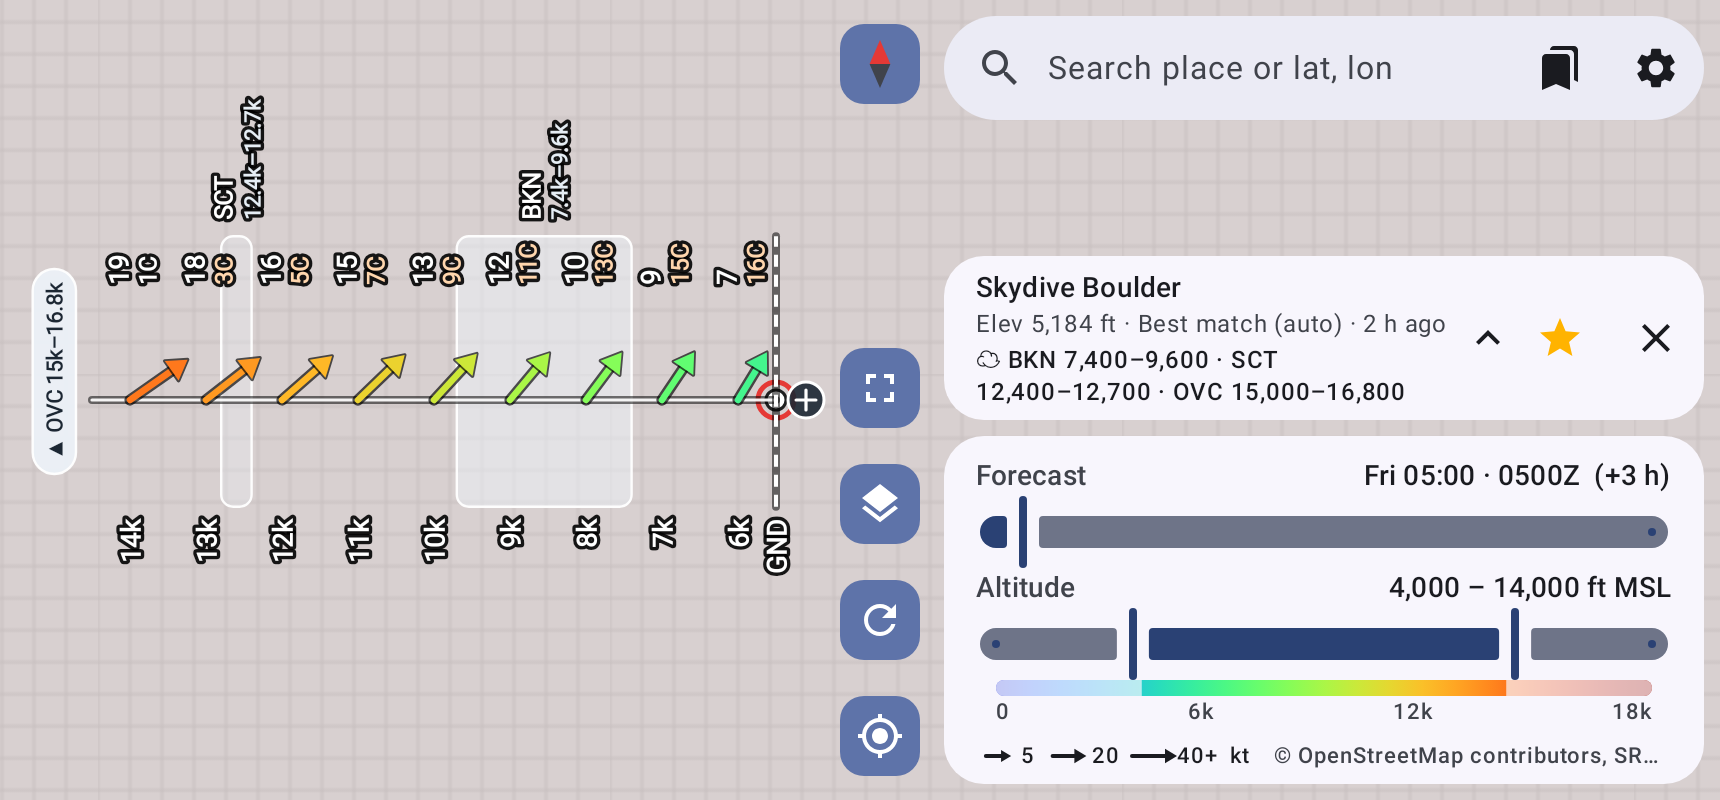
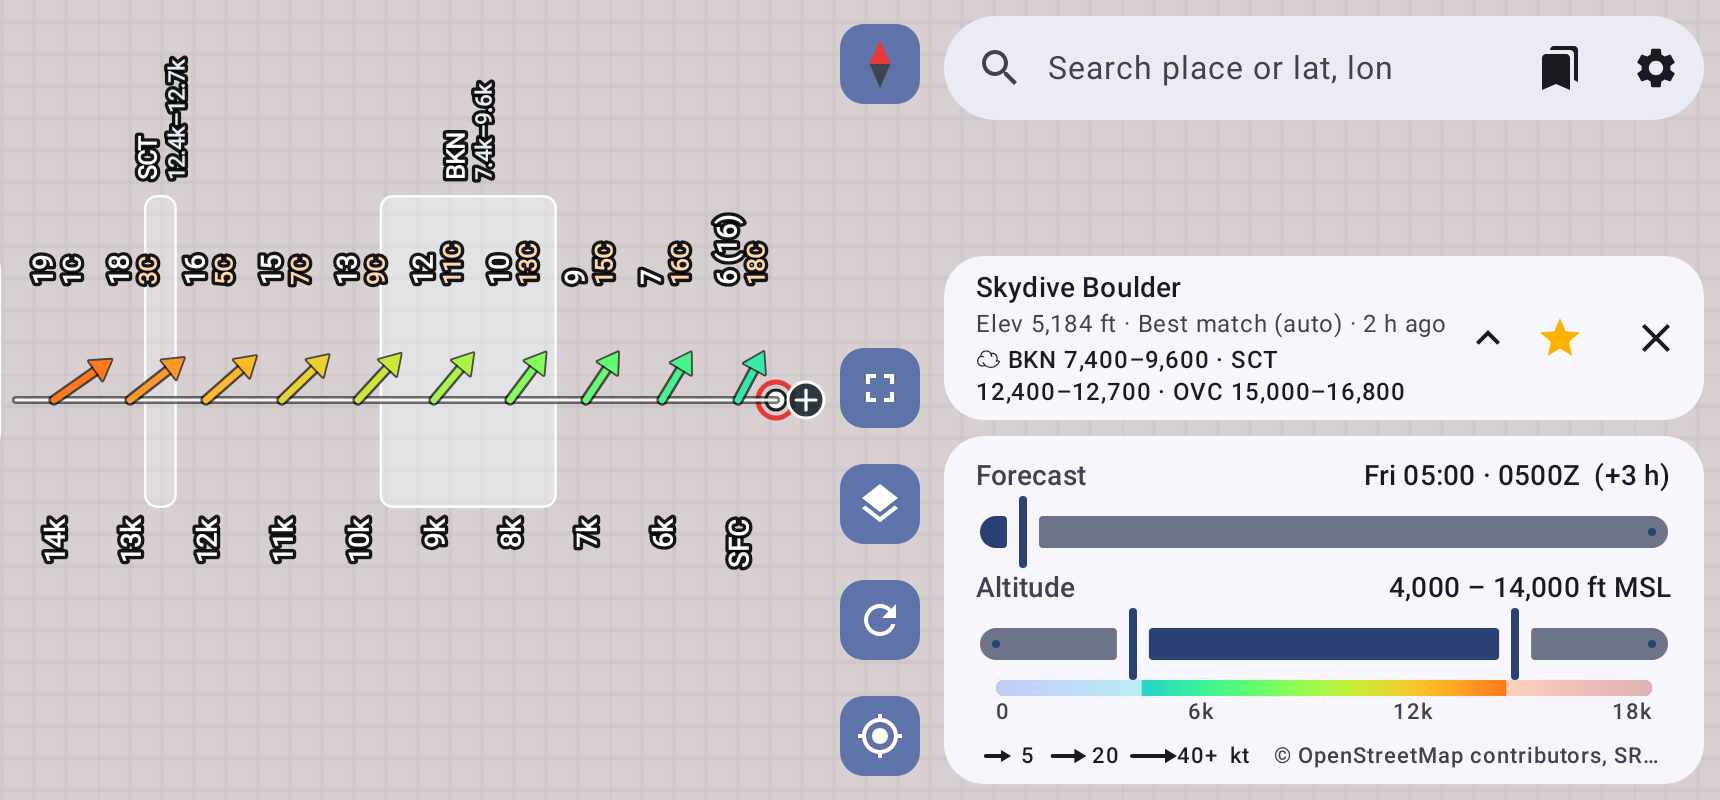
0.9.1: ground gusts in brackets next to the surface wind
Request Open-Meteo's wind_gusts_10m and attach it to the 10 m wind. The
bottom chart row is now the ground wind, labelled SFC, with gusts in
brackets ("4 (18)") on the map and in the table. In MSL mode it takes
the below-ground slot just under the lowest real altitude; in AGL it is
the 0 ft row. The label slot reserves room for the gust so the layout
still never changes with the forecast time.

Claude-Session: https://claude.ai/code/session_01ASfqcF537i7kv6SW4BHrd9

diff --git a/app/src/main/java/dev/windsaloft/ui/Components.kt b/app/src/main/java/dev/windsaloft/ui/Components.kt
@@ -481,7 +481,7 @@ fun PinPanel(
 
 private val ColAlt = 92.dp
 private val ColDir = 84.dp
-private val ColSpd = 64.dp
+private val ColSpd = 72.dp
 
 @Composable
 private fun ProfileHeader(unit: SpeedUnit) {
@@ -498,7 +498,14 @@ private fun ProfileHeader(unit: SpeedUnit) {
 }
 
 @Composable
-private fun altitudeText(ft: Int, s: Settings) = Format.feet(ft) + if (ft == 0 && s.altitudeRef == AltitudeRef.AGL) " sfc" else ""
+private fun altitudeText(ft: Int, s: Settings, w: Wind? = null) = when {
+    w?.surface == true && s.altitudeRef == AltitudeRef.MSL -> "SFC " + Format.feet(w.altitudeFt)
+    w?.surface == true || (ft == 0 && s.altitudeRef == AltitudeRef.AGL) -> "SFC"
+    else -> Format.feet(ft)
+}
+
+/** Speed, plus the gust forecast in brackets for the ground wind: "4 (18)". */
+private fun speedText(w: Wind, s: Settings) = Format.speed(w.speedMs, s.unit) + (w.gustMs?.let { " (${Format.speed(it, s.unit)})" } ?: "")
 
 @Composable
 private fun ProfileRow(ft: Int, w: Wind?, s: Settings) {
@@ -508,7 +515,7 @@ private fun ProfileRow(ft: Int, w: Wind?, s: Settings) {
     Row(Modifier.fillMaxWidth().padding(horizontal = 16.dp, vertical = 3.dp), verticalAlignment = Alignment.CenterVertically) {
         Canvas(Modifier.size(10.dp)) { drawCircle(rowColor) }
         Spacer(Modifier.width(8.dp))
-        Text(altitudeText(ft, s), Modifier.width(ColAlt), style = num, maxLines = 1)
+        Text(altitudeText(ft, s, w), Modifier.width(ColAlt), style = num, maxLines = 1)
         if (w == null) {
             Text(
                 if (s.altitudeRef == AltitudeRef.MSL) "below ground / no data" else "no data",
@@ -522,7 +529,7 @@ private fun ProfileRow(ft: Int, w: Wind?, s: Settings) {
             Spacer(Modifier.width(6.dp))
             Text(Format.direction(w.dirFromDeg), style = num)
         }
-        Text(Format.speed(w.speedMs, s.unit), Modifier.width(ColSpd), style = num, fontWeight = FontWeight.SemiBold)
+        Text(speedText(w, s), Modifier.width(ColSpd), style = num, fontWeight = FontWeight.SemiBold, maxLines = 1)
         Text(w.tempC?.let { s.tempUnit.format(it) } ?: "", style = num)
     }
 }
@@ -554,7 +561,7 @@ private fun CompareRow(profiles: List<ModelProfile>, index: Int, s: Settings) {
     val ft = profiles.first().winds[index].first
     val winds = profiles.map { it.winds.getOrNull(index)?.second }
     Row(Modifier.fillMaxWidth().padding(horizontal = 12.dp, vertical = 3.dp), verticalAlignment = Alignment.CenterVertically) {
-        Text(Format.feet(ft), Modifier.width(ColAltCompare), style = num, maxLines = 1)
+        Text(if (winds.any { it?.surface == true }) "SFC" else Format.feet(ft), Modifier.width(ColAltCompare), style = num, maxLines = 1)
         profiles.forEachIndexed { i, p ->
             val w = winds[i]
             Row(Modifier.weight(1f), verticalAlignment = Alignment.CenterVertically) {
@@ -565,7 +572,7 @@ private fun CompareRow(profiles: List<ModelProfile>, index: Int, s: Settings) {
                     Spacer(Modifier.width(2.dp))
                     // Aviation-style "direction/speed", then temperature.
                     Text(
-                        "%03d/%s".format(Math.round(w.dirFromDeg) % 360, Format.speed(w.speedMs, s.unit)),
+                        "%03d/%s".format(Math.round(w.dirFromDeg) % 360, speedText(w, s)),
                         style = num, maxLines = 1,
                     )
                     if (w.tempC != null) {
@@ -776,7 +783,8 @@ fun SettingsDialog(settings: Settings, onChange: (Settings) -> Unit, onDismiss: 
                 )
                 Text(
                     "Each altitude is a row, lowest at the pin; a longer symbol is a stronger wind. Directions are " +
-                        "shown in degrees (°) the wind comes from; temperatures end in C or F. Long-press the map to " +
+                        "shown in degrees (°) the wind comes from; temperatures end in C or F. The bottom SFC row is the " +
+                        "ground wind, with forecast gusts in brackets: 4 (18). Long-press the map to " +
                         "move the forecast spot.",
                     style = MaterialTheme.typography.bodySmall,
                     color = MaterialTheme.colorScheme.onSurfaceVariant,

diff --git a/app/src/main/java/dev/windsaloft/map/WindOverlay.kt b/app/src/main/java/dev/windsaloft/map/WindOverlay.kt
@@ -256,7 +256,10 @@ class WindOverlay(private val density: Float) : Overlay() {
         val lenScale = if (comparing) COMPARE_LENGTH else STACK_LENGTH
         val reach = (if (anchor == ArrowAnchor.CENTRE) cell * lenScale / 2 else cell * lenScale) + stroke * 1.5f + density
         // Sized for the widest possible text, so the slot never changes with the numbers.
-        val topTemplate = listOfNotNull(if (showDirection) "888°" else null, if (showSpeed) "888" else null).joinToString(" ")
+        // The ground row also shows gusts, "12 (25)": reserve room for that whenever there is a ground row.
+        val hasSurface = columns.any { c -> c.winds.any { it?.surface == true } }
+        val speedTemplate = if (hasSurface) "88 (88)" else "888"
+        val topTemplate = listOfNotNull(if (showDirection) "888°" else null, if (showSpeed) speedTemplate else null).joinToString(" ")
         val topW = if (topTemplate.isEmpty()) 0f else width(topTemplate, textSize)
         val tempW = if (showTemperature) width("-88F", tempSize) else 0f
         val labelW = if (topW == 0f && tempW == 0f) 0f else maxOf(topW, tempW) + 6 * density
@@ -318,13 +321,13 @@ class WindOverlay(private val density: Float) : Overlay() {
                 val color = colorFor(w, col)
                 val kt = w.speedMs * KT_PER_MS
                 drawGlyph(c, cx, cy, w, cell * lenScale, cell * 0.16f, stroke, color, anchor)
-                if (i % labelEvery != 0) return@forEachIndexed
+                if (i % labelEvery != 0 && !w.surface) return@forEachIndexed
                 // Label slot: direction + speed on top, temperature underneath, always at the same spot.
                 val lx = cx + reach + 4 * density
                 val hasTemp = showTemperature && w.tempC != null
                 val topLine = listOfNotNull(
                     if (showDirection) "%03d°".format(Math.round(w.dirFromDeg).toInt() % 360) else null,
-                    if (showSpeed) speedLabel(w.speedMs) else null,
+                    if (showSpeed) speedLabel(w.speedMs) + (w.gustMs?.let { " (${speedLabel(it)})" } ?: "") else null,
                 ).joinToString(" ")
                 if (topLine.isNotEmpty()) {
                     text.textSize = textSize; textHalo.textSize = textSize
@@ -360,14 +363,15 @@ class WindOverlay(private val density: Float) : Overlay() {
         // Altitude labels down the left side.
         text.textSize = textSize; textHalo.textSize = textSize
         val altX = colL(0) - 6 * density
+        val surfaceRow = (skip until rows).firstOrNull { i -> columns.any { it.winds.getOrNull(i)?.surface == true } }
         for (i in skip until rows) {
-            if (i % labelEvery != 0) continue
+            if (i % labelEvery != 0 && i != surfaceRow) continue
             val alt = rowAlt(i) ?: continue
-            val label = if (alt == 0) "SFC" else if (alt % 1000 == 0) "${alt / 1000}k" else "$alt"
+            val label = if (alt == 0 || i == surfaceRow) "SFC" else if (alt % 1000 == 0) "${alt / 1000}k" else "$alt"
             drawText(c, label, altX, rowY(i) + textSize * 0.36f, Paint.Align.RIGHT, 0xFFFFFFFF.toInt())
         }
-        // When MSL rows were dropped, the ground is at the pin: mark it.
-        if (skip > 0) {
+        // When MSL rows were dropped, the ground is at the pin: mark it (unless the ground-wind row already does).
+        if (skip > 0 && surfaceRow != skip) {
             ground.pathEffect = android.graphics.DashPathEffect(floatArrayOf(6 * density, 4 * density), 0f)
             ground.strokeWidth = 2f * density
             staffHalo.strokeWidth = 4f * density

diff --git a/app/src/main/java/dev/windsaloft/wind/WindMath.kt b/app/src/main/java/dev/windsaloft/wind/WindMath.kt
@@ -13,8 +13,14 @@ data class LatLon(val lat: Double, val lon: Double)
 /** One model level for one hour: wind (and optionally temperature) at a height above mean sea level. */
 data class RawSample(val heightM: Double, val speedMs: Double, val dirFromDeg: Double, val tempC: Double?)
 
-/** Wind interpolated to a requested altitude. Direction is meteorological: where the wind blows FROM. */
-data class Wind(val altitudeFt: Int, val dirFromDeg: Double, val speedMs: Double, val tempC: Double?)
+/**
+ * Wind interpolated to a requested altitude. Direction is meteorological: where the wind blows FROM.
+ * [surface] marks the ground wind (10 m), which also carries the forecast gust speed, [gustMs].
+ */
+data class Wind(
+    val altitudeFt: Int, val dirFromDeg: Double, val speedMs: Double, val tempC: Double?,
+    val gustMs: Double? = null, val surface: Boolean = false,
+)
 
 enum class AltitudeRef { MSL, AGL }
 
@@ -145,6 +151,8 @@ class ForecastPoint(
     val profiles: List<List<RawSample>>,
     /** Per hour, pressure-level cloud cover sorted by height (empty when the model has none). */
     val clouds: List<List<CloudSample>> = emptyList(),
+    /** Per hour, forecast gust speed at 10 m (NaN = none); null when the model doesn't give gusts. */
+    val surfaceGustsMs: DoubleArray? = null,
 ) {
     /**
      * Cloud layers between [loFt] and [hiFt] (display reference), found by scanning every 100 ft for
@@ -177,14 +185,33 @@ class ForecastPoint(
 
     fun hourIndex(epochSec: Long): Int = java.util.Arrays.binarySearch(timesEpochSec, epochSec).let { if (it >= 0) it else -1 }
 
+    /**
+     * Winds at each altitude. The ground wind (with gusts) fills the 0 ft AGL slot, or in MSL the
+     * slot just below the lowest altitude above ground, so the column starts with the surface wind.
+     */
     fun windsAt(epochSec: Long, altitudesFt: List<Int>, ref: AltitudeRef): List<Wind?> {
         val i = hourIndex(epochSec)
         if (i < 0) return altitudesFt.map { null }
         val samples = profiles[i]
         val base = if (ref == AltitudeRef.AGL) elevationM else 0.0
-        return altitudesFt.map { ft ->
+        val winds = altitudesFt.map { ft ->
+            if (ref == AltitudeRef.AGL && ft == 0) return@map surfaceAt(i, 0)
             WindMath.interpolate(samples, base + ft * M_PER_FT, elevationM)
                 ?.let { Wind(ft, it.dirFromDeg, it.speedMs, it.tempC) }
+        }.toMutableList()
+        if (ref == AltitudeRef.MSL) {
+            val first = winds.indexOfFirst { it != null }
+            if (first > 0 && altitudesFt[first - 1] * M_PER_FT < elevationM) {
+                winds[first - 1] = surfaceAt(i, Math.round(elevationM / M_PER_FT).toInt())
+            }
         }
+        return winds
+    }
+
+    /** The 10 m wind for hour [i], labelled with [altitudeFt], with the gust forecast when there is one. */
+    private fun surfaceAt(i: Int, altitudeFt: Int): Wind? {
+        val s = profiles[i].firstOrNull { kotlin.math.abs(it.heightM - (elevationM + 10)) < 1.0 } ?: return null
+        val gust = surfaceGustsMs?.getOrNull(i)?.takeUnless { it.isNaN() }
+        return Wind(altitudeFt, s.dirFromDeg, s.speedMs, s.tempC, gustMs = gust, surface = true)
     }
 }

diff --git a/app/src/test/java/dev/windsaloft/data/OpenMeteoTest.kt b/app/src/test/java/dev/windsaloft/data/OpenMeteoTest.kt
@@ -23,6 +23,7 @@ class OpenMeteoTest {
         assertTrue(url.contains("geopotential_height_550hPa"))
         assertFalse(url.contains("temperature"))
         assertTrue(url.contains("models=gfs_seamless"))
+        assertTrue(url.contains("wind_gusts_10m"))
     }
 
     // Two locations, as the API returns for comma-separated coordinates. The 1000 hPa level is
@@ -30,7 +31,7 @@ class OpenMeteoTest {
     private val twoLocations = """
         [{"latitude":40.0,"longitude":-105.0,"elevation":1600.0,
           "hourly":{"time":[3600,7200],
-            "wind_speed_10m":[3.0,4.0],"wind_direction_10m":[180,190],
+            "wind_speed_10m":[3.0,4.0],"wind_direction_10m":[180,190],"wind_gusts_10m":[9.5,null],
             "wind_speed_1000hPa":[9.0,9.0],"wind_direction_1000hPa":[90,90],"geopotential_height_1000hPa":[110,112],
             "wind_speed_850hPa":[8.0,null],"wind_direction_850hPa":[250,null],"geopotential_height_850hPa":[1450,1460],
             "wind_speed_700hPa":[15.0,16.0],"wind_direction_700hPa":[270,275],"geopotential_height_700hPa":[3100,3110],
@@ -52,11 +53,22 @@ class OpenMeteoTest {
         assertEquals(1600.0, first.elevationM, 1e-9)
         // hour 0: 10 m + 700 hPa (1000 hPa below ground, 850 hPa at 1450 m is below 1600 m ground too)
         assertEquals(listOf(1610.0, 3100.0), first.profiles[0].map { it.heightM })
-        // Below-ground MSL altitude returns null; AGL surface returns the 10 m wind.
-        val msl = first.windsAt(3600, listOf(0, 9000), AltitudeRef.MSL)
+        // MSL: the below-ground slot under the lowest real altitude shows the ground wind and its gusts;
+        // anything further below ground is empty. AGL 0 ft is the ground wind too.
+        val msl = first.windsAt(3600, listOf(0, 3000, 9000), AltitudeRef.MSL)
         assertNull(msl[0])
-        assertEquals(270.0, msl[1]!!.dirFromDeg, 15.0)
-        assertEquals(3.0, first.windsAt(3600, listOf(0), AltitudeRef.AGL)[0]!!.speedMs, 1e-9)
+        assertTrue(msl[1]!!.surface)
+        assertEquals(3.0, msl[1]!!.speedMs, 1e-9)
+        assertEquals(9.5, msl[1]!!.gustMs!!, 1e-9)
+        assertEquals(5249, msl[1]!!.altitudeFt) // the ground, 1600 m
+        assertEquals(270.0, msl[2]!!.dirFromDeg, 15.0)
+        val agl = first.windsAt(3600, listOf(0, 1000), AltitudeRef.AGL)
+        assertTrue(agl[0]!!.surface)
+        assertEquals(3.0, agl[0]!!.speedMs, 1e-9)
+        assertFalse(agl[1]!!.surface)
+        assertNull(agl[1]!!.gustMs)
+        // No gust given for that hour: the ground wind still shows, just without gusts.
+        assertNull(first.windsAt(7200, listOf(0), AltitudeRef.AGL)[0]!!.gustMs)
 
         // Cloud cover comes from levels above ground only: 850 hPa (1450 m) is under the 1600 m terrain.
         assertEquals(listOf(3100.0 to 60.0), first.clouds[0].map { it.heightM to it.pct })

diff --git a/app/src/main/java/dev/windsaloft/data/OpenMeteo.kt b/app/src/main/java/dev/windsaloft/data/OpenMeteo.kt
@@ -68,6 +68,7 @@ object OpenMeteo {
             add("wind_direction_${h}m")
             if (includeTemperature) add("temperature_${t}m")
         }
+        add("wind_gusts_10m")
         for (p in levelsFor(ceilingFt)) {
             add("wind_speed_${p}hPa")
             add("wind_direction_${p}hPa")
@@ -152,7 +153,7 @@ object OpenMeteo {
                 if (h > elevation) CloudSample(h, pct) else null
             }.sortedBy { it.heightM }
         }
-        return ForecastPoint(location, elevation, times, profiles, clouds)
+        return ForecastPoint(location, elevation, times, profiles, clouds, series("wind_gusts_10m"))
     }
 
     private fun JsonObject.num(key: String): Double? = (this[key] as? JsonElement)?.jsonPrimitive?.doubleOrNull

diff --git a/app/src/test/java/dev/windsaloft/wind/WindMathTest.kt b/app/src/test/java/dev/windsaloft/wind/WindMathTest.kt
@@ -71,7 +71,9 @@ class WindMathTest {
     fun forecastPointAglVsMsl() {
         val fp = ForecastPoint(LatLon(0.0, 0.0), ground, longArrayOf(3600L), listOf(profile))
         val msl = fp.windsAt(3600L, listOf(0, 8000), AltitudeRef.MSL)
-        assertNull(msl[0]) // sea level is underground here
+        // Sea level is underground here, so that slot shows the ground wind instead.
+        assertTrue(msl[0]!!.surface)
+        assertEquals(4.0, msl[0]!!.speedMs, 1e-9)
         assertNotNull(msl[1])
         val agl = fp.windsAt(3600L, listOf(0, 1000), AltitudeRef.AGL)
         assertEquals(4.0, agl[0]!!.speedMs, 1e-9)

diff --git a/app/src/test/java/dev/windsaloft/ui/ScreenshotTest.kt b/app/src/test/java/dev/windsaloft/ui/ScreenshotTest.kt
@@ -69,7 +69,8 @@ class ScreenshotTest {
                 CloudSample(4500.0, 0.0), CloudSample(4700.0, 90.0), CloudSample(5000.0, 95.0), CloudSample(5200.0, 0.0),
             )
         }
-        return ForecastPoint(at, elevation, hours.toLongArray(), profiles, clouds)
+        // Gusty at the ground: 3 m/s sustained, gusting 8-9 m/s.
+        return ForecastPoint(at, elevation, hours.toLongArray(), profiles, clouds, DoubleArray(hours.size) { 8.0 + skew * 0.3 })
     }
 
     @Test

diff --git a/README.md b/README.md
@@ -9,7 +9,7 @@ Upper-wind forecasts drawn on a map. The pinned location gets a column of arrows
 - **Numbers**: beside each symbol, speed on top and temperature underneath, e.g. "-3C" or "27F". The ° sign is kept for compass directions. *Numbers on the map* can also add the direction the wind comes from ("270° 19"), and each number can be turned on or off.
 - **Altitude**: row position, labelled down the left side. The layout is fixed: rows have a set spacing, and each column reserves room for the longest possible arrow plus a speed/temperature slot. So nothing moves or resizes when you change the time or when panels open. Pan the map to see what's underneath, or hide all panels with one tap.
 - **Colour**: altitude by default, or the model when comparing. Settings can switch it to speed, temperature, model or white, and the location table's dots and symbols use the same colours as the map. The temperature scale runs from red (40C) through yellow and green, is blue at freezing (0C / 32F), and gets darker until it reaches black at −40. Dark arrows get a light outline so they show on any map.
-- **Ground**: in MSL mode, altitudes below the terrain are left out, so the column starts at the pin, which is marked **GND**.
+- **Ground wind and gusts**: the bottom row, **SFC**, is the forecast wind at ground level (10 m), with the model's gust forecast in brackets: "4 (18)" means 4 sustained, gusting 18. The same goes in the table. In MSL mode, altitudes below the terrain are left out, so the column starts with the SFC row at the pin. Forecast gusts are a model estimate for a whole grid square, so local effects such as sea breezes and terrain can make real gusts stronger.
 - **Clouds**: cloud layers are drawn as bands behind the rows. Each band spans the layer's base and top to the nearest 100 ft and is shaded by coverage: SCT 25–50 %, BKN 50–87 %, OVC above that. The location panel lists them exactly, e.g. "BKN 7,400–9,600 · SCT 12,400–12,700", per model when comparing. Layers above or below the shown altitudes get a ▲/▼ marker above the column or below the pin. Layers come from Open-Meteo's per-pressure-level cloud cover, interpolated to every 100 ft.
 
 | One model | Comparing three models |
